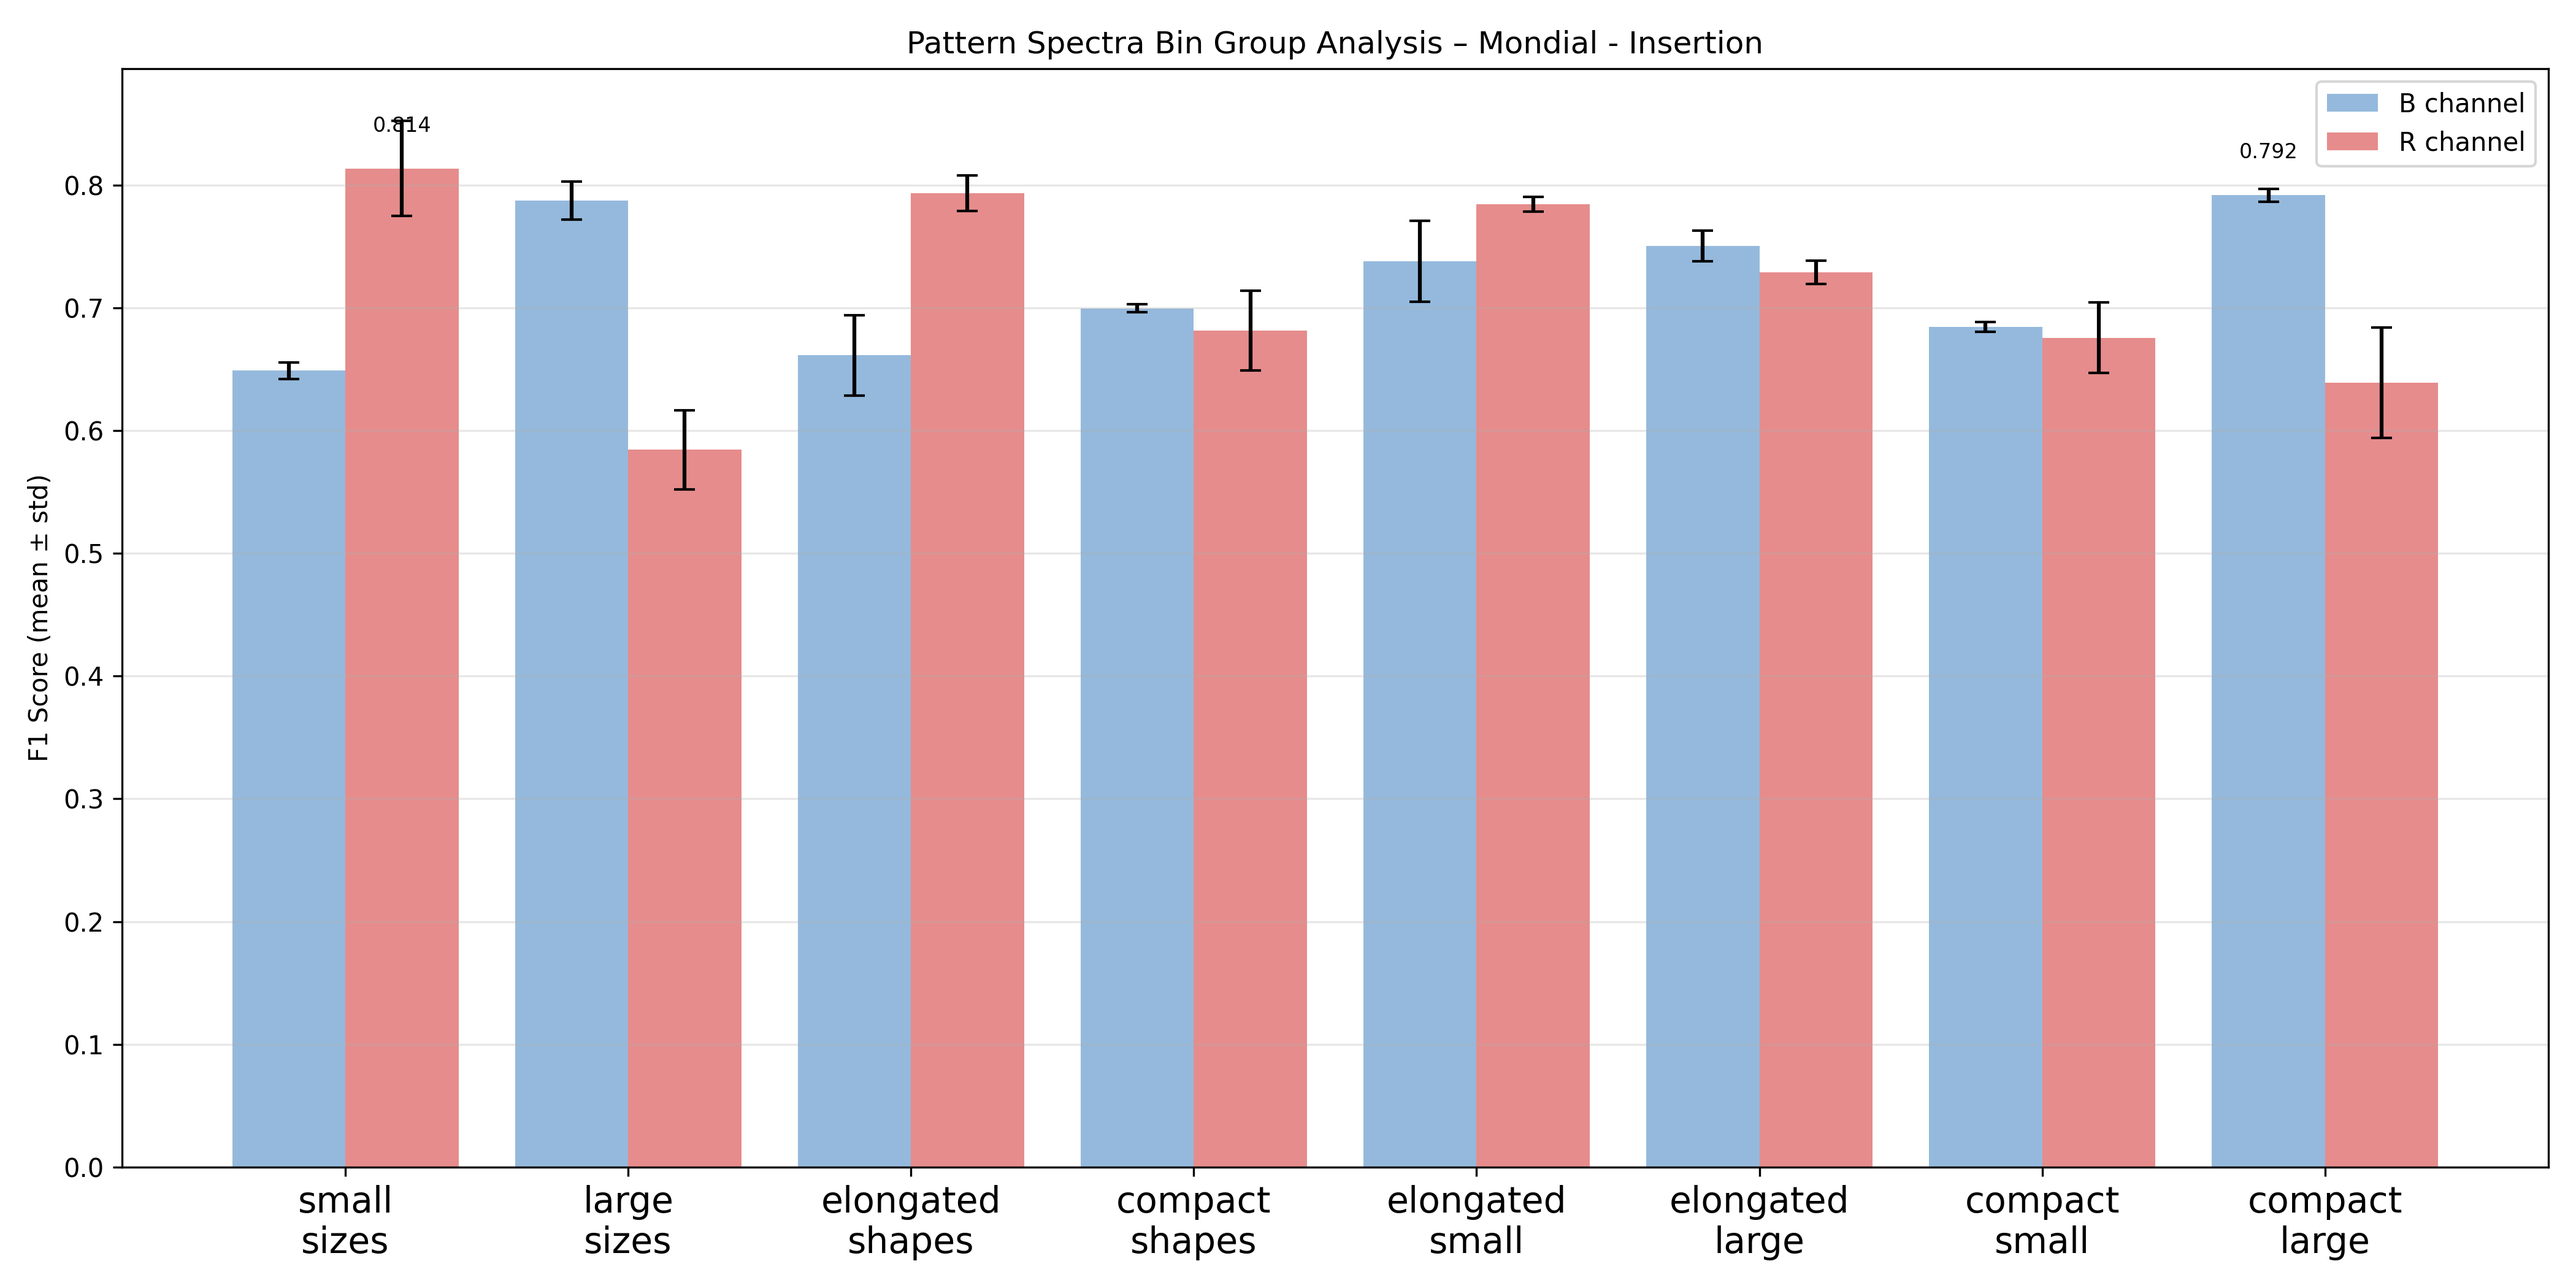
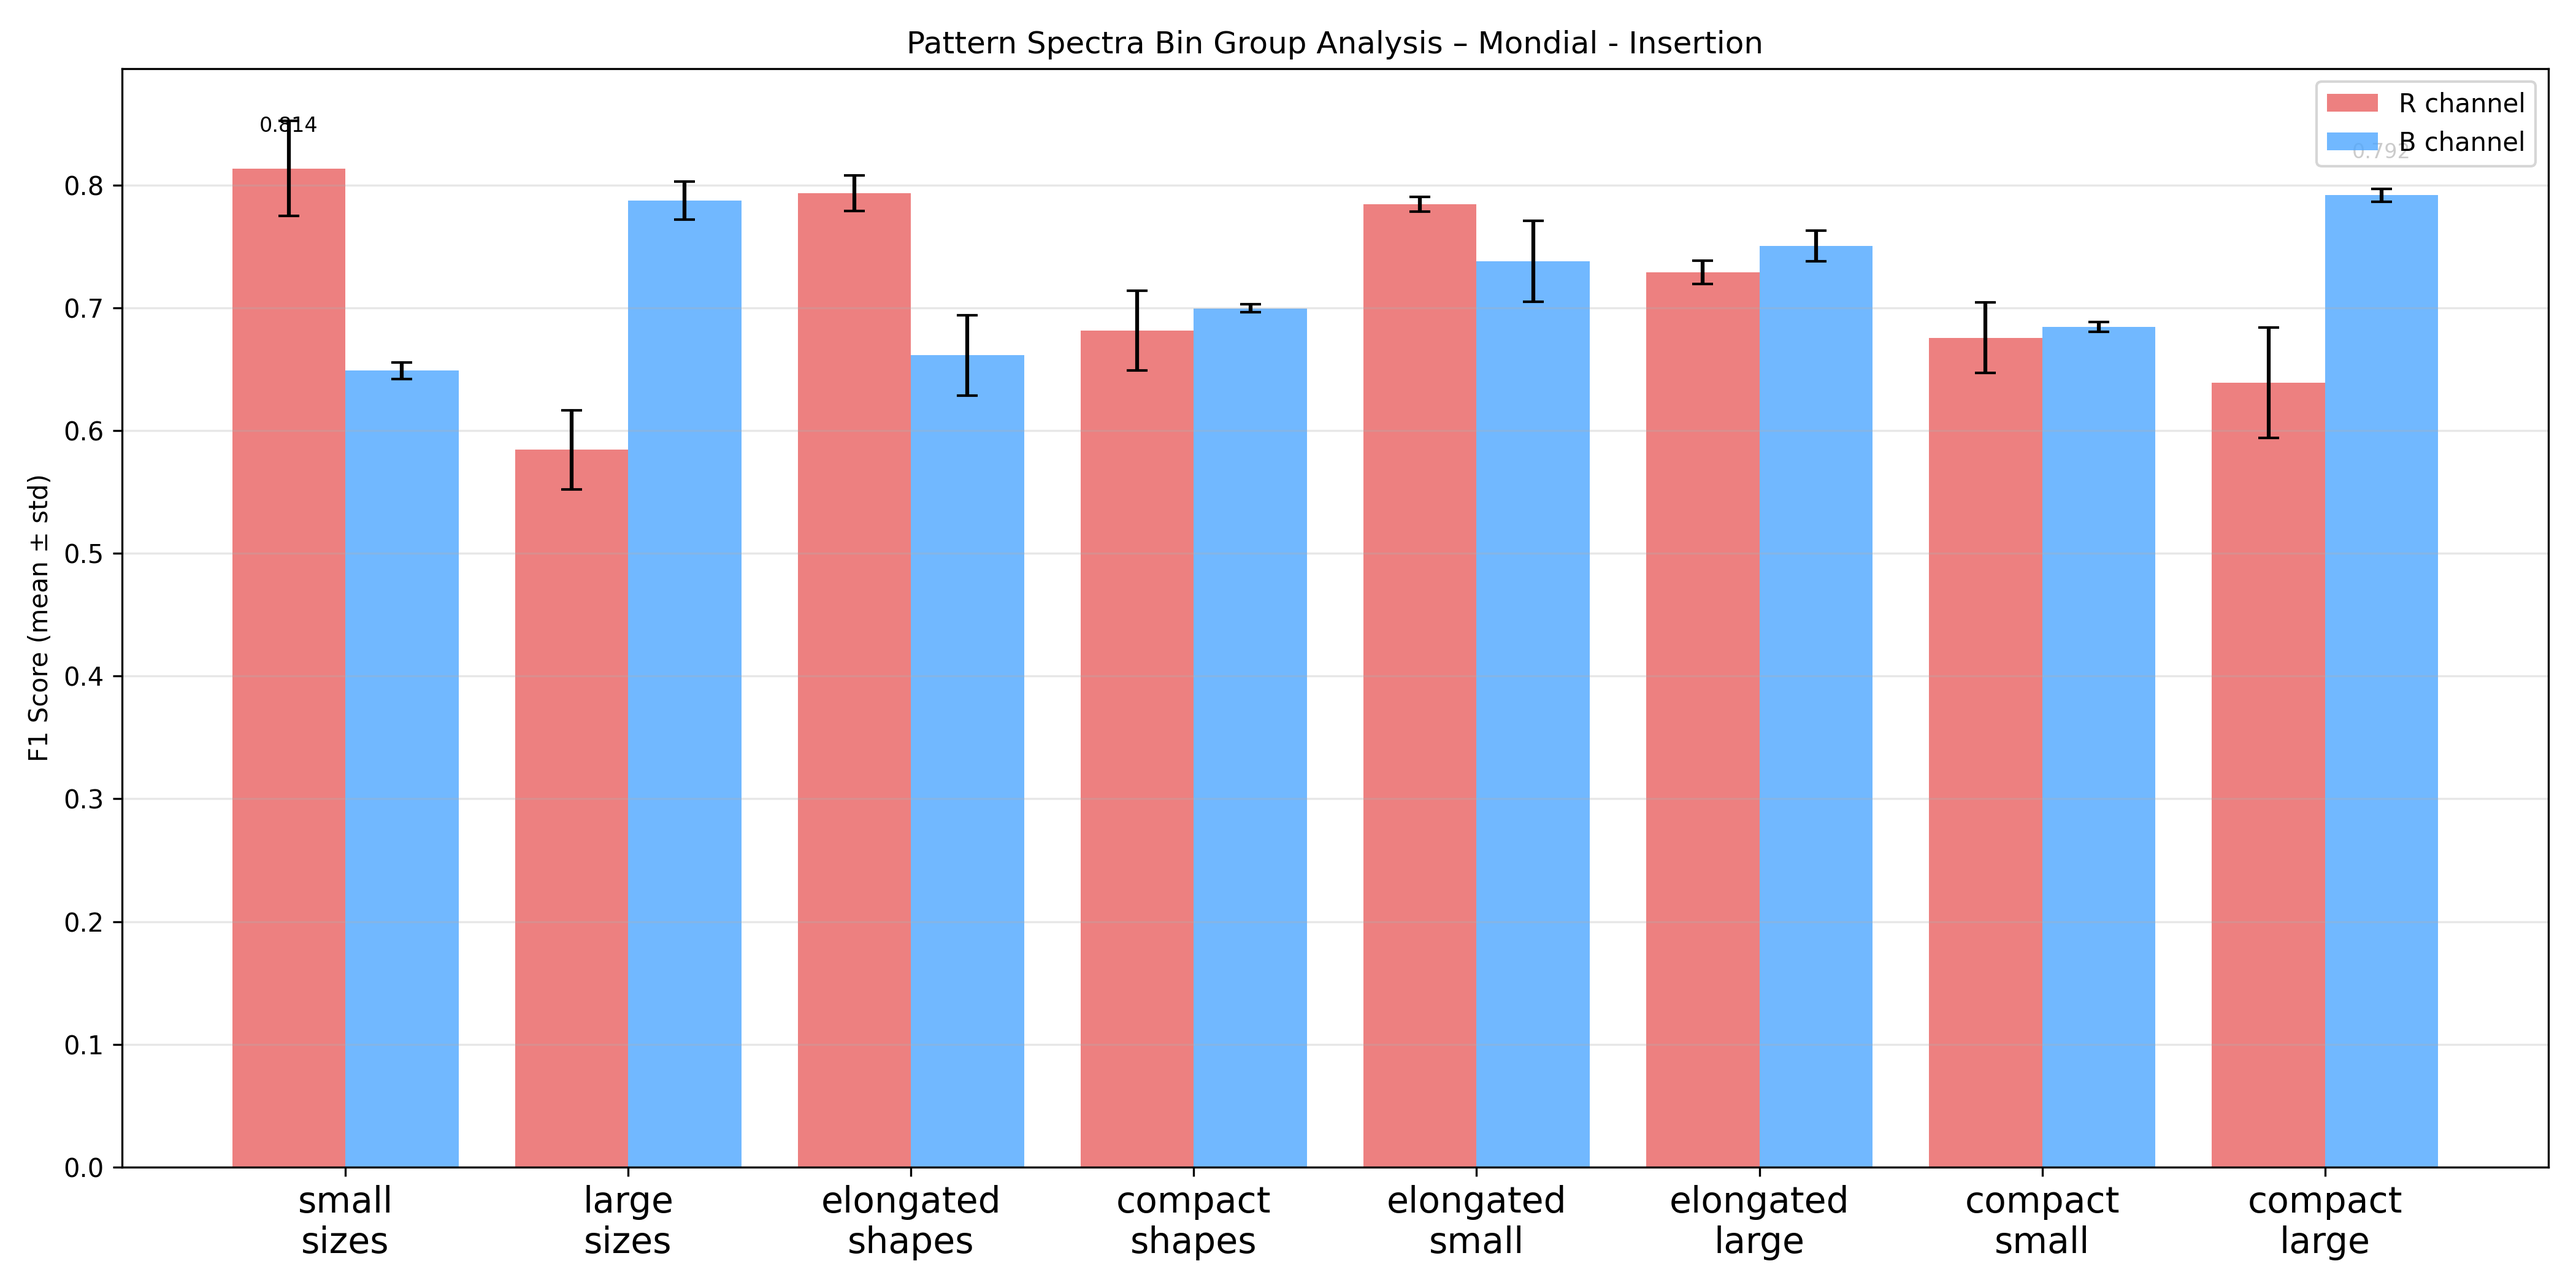
fixed bug with best_combo[0]

diff --git a/Feature_Extraction/run_bin_analysis.py b/Feature_Extraction/run_bin_analysis.py
@@ -117,7 +117,7 @@ def create_feature_array_from_10x10(arr_10x10, shape_bins, size_bins): # INSERTI
 
 def create_feature_array_deletion(arr_10x10, shape_bins_to_remove, size_bins_to_remove):
     # return all bins except those in shape_bins_to_remove and size_bins_to_remove - FOR DELETION CASE
-    mask = np.zeros((11, 11), dtype=bool)
+    mask = np.ones((11, 11), dtype=bool)
     mask[np.ix_(shape_bins_to_remove, size_bins_to_remove)] = False
     sel = arr_10x10[mask] # apply removal mask 
 
@@ -265,6 +265,12 @@ def main():
         n_samples_label = preloaded[label_name][CHANNEL_POOL[0]].shape[0]
         train_idx, test_idx = build_train_test_indices(n_samples_label, xval_fraction)
         label_train_test_indices[label_name] = (train_idx, test_idx)
+
+    # print label counts per split
+    for label_name in LABEL_MAP:
+        train_idx, test_idx = label_train_test_indices[label_name]
+        print(f"[DEBUG] Label '{label_name}' -> Train: {len(train_idx)}, Test: {len(test_idx)}")
+
 
     for label_name in LABEL_MAP:
         train_idx, test_idx = label_train_test_indices[label_name]
@@ -473,6 +479,15 @@ def main():
         Xte_final = np.array(Xte_final_list)
         yte_final = np.array(yte_final_list, dtype=np.int64)
 
+
+        print("\n[DEBUG] FINAL TRAIN/TEST AFTER BIN FILTER:")
+        print("Train Healthy:   ", np.sum(np.array(ytr_final) == 0))
+        print("Train Unhealthy: ", np.sum(np.array(ytr_final) == 1))
+        print("Test Healthy:    ", np.sum(np.array(yte_final) == 0))
+        print("Test Unhealthy:  ", np.sum(np.array(yte_final) == 1))
+        print("Total Train:", len(ytr_final), "Total Test:", len(yte_final))
+
+
         # train final per-channel model and evaluate on test set
         final_model = make_model()
         final_model.fit(Xtr_final, ytr_final)
@@ -537,76 +552,82 @@ def main():
 
     # Build combined features (concatenate per-channel best-bin features)
 
-
-    # Use per-label splits for FINAL MULTI-CHANNEL EVALUATION
-    X_train_per_label = []
-    y_train_per_label = []
-    X_test_per_label = []
-    y_test_per_label = []
-
-    for label_idx, label_name in enumerate(LABEL_MAP.keys()):
-        n_train = preloaded[label_name][best_combo[0] + "_train"].shape[0]
-        n_test = preloaded[label_name][best_combo[0] + "_test"].shape[0]
-
-        # stack arrays from all channels in best_combo for this label
-        # Note: we only concatenate features later after applying best subsets, so here we just keep 10x10 arrays
-        X_train_per_label.append(preloaded[label_name][best_combo[0] + "_train"])
-        y_train_per_label.append(np.array([label_idx] * n_train))
-        X_test_per_label.append(preloaded[label_name][best_combo[0] + "_test"])
-        y_test_per_label.append(np.array([label_idx] * n_test))
-
-    X_train_full_10x10 = np.vstack(X_train_per_label)
-    y_train_full = np.concatenate(y_train_per_label)
-    X_test_full_10x10 = np.vstack(X_test_per_label)
-    y_test_full = np.concatenate(y_test_per_label)
-
+    # FINAL MULTI-CHANNEL EVALUATION
     Xtr_final = []
     ytr_final = []
     Xte_final = []
     yte_final = []
 
-    # Train set
-    for xi, yi in zip(X_train_full_10x10, y_train_full):
-        fv_parts = []
-        skip = False
-        for ch in best_combo:
-            s_bins = all_best[ch]["shape_bins"]
-            z_bins = all_best[ch]["size_bins"]
-            if args.eval_type == "insertion":
-                fv = create_feature_array_from_10x10(xi, s_bins, z_bins)
-            else:
-                fv = create_feature_array_deletion(xi, s_bins, z_bins)
-            if fv is None:
-                skip = True
-                break
-            fv_parts.append(fv)
-        if not skip:
-            Xtr_final.append(np.concatenate(fv_parts))
-            ytr_final.append(yi)
+    # -------------------------
+    # BUILD FINAL TRAIN FEATURES
+    # -------------------------
+    for label_idx, label_name in enumerate(LABEL_MAP.keys()):
 
-    # Test set
-    for xi, yi in zip(X_test_full_10x10, y_test_full):
-        fv_parts = []
-        skip = False
-        for ch in best_combo:
-            s_bins = all_best[ch]["shape_bins"]
-            z_bins = all_best[ch]["size_bins"]
-            if args.eval_type == "insertion":
-                fv = create_feature_array_from_10x10(xi, s_bins, z_bins)
-            else:
-                fv = create_feature_array_deletion(xi, s_bins, z_bins)
-            if fv is None:
-                skip = True
-                break
-            fv_parts.append(fv)
-        if not skip:
-            Xte_final.append(np.concatenate(fv_parts))
-            yte_final.append(yi)
+        # Number of train samples for this label
+        n_train = len(X_train_per_label[label_idx][best_combo[0]])
 
+        for idx in range(n_train):
+            fv_parts = []
+            skip = False
+
+            for ch in best_combo:
+                xi = X_train_per_label[label_idx][ch][idx]  
+
+                s_bins = all_best[ch]["shape_bins"]
+                z_bins = all_best[ch]["size_bins"]
+
+                if args.eval_type == "insertion":
+                    fv = create_feature_array_from_10x10(xi, s_bins, z_bins)
+                else:
+                    fv = create_feature_array_deletion(xi, s_bins, z_bins)
+
+                if fv is None or fv.size == 0:
+                    skip = True
+                    break
+
+                fv_parts.append(fv)
+
+            if not skip:
+                Xtr_final.append(np.concatenate(fv_parts))
+                ytr_final.append(label_idx)
+
+    # ------------------------
+    # BUILD FINAL TEST FEATURES
+    # ------------------------
+    for label_idx, label_name in enumerate(LABEL_MAP.keys()):
+
+        n_test = len(X_test_per_label[label_idx][best_combo[0]])
+
+        for idx in range(n_test):
+            fv_parts = []
+            skip = False
+
+            for ch in best_combo:
+                xi = X_test_per_label[label_idx][ch][idx]
+
+                s_bins = all_best[ch]["shape_bins"]
+                z_bins = all_best[ch]["size_bins"]
+
+                if args.eval_type == "insertion":
+                    fv = create_feature_array_from_10x10(xi, s_bins, z_bins)
+                else:
+                    fv = create_feature_array_deletion(xi, s_bins, z_bins)
+
+                if fv is None or fv.size == 0:
+                    skip = True
+                    break
+
+                fv_parts.append(fv)
+
+            if not skip:
+                Xte_final.append(np.concatenate(fv_parts))
+                yte_final.append(label_idx)
+                
     Xtr_final = np.array(Xtr_final)
     ytr_final = np.array(ytr_final, dtype=np.int64)
     Xte_final = np.array(Xte_final)
     yte_final = np.array(yte_final, dtype=np.int64)
+
 
     print(f"\nTraining final multi-channel model using {len(best_combo)} channels...")
 

diff --git a/Feature_Extraction/plot_bin_results.py b/Feature_Extraction/plot_bin_results.py
@@ -3,17 +3,17 @@ import pickle
 import numpy as np
 import matplotlib.pyplot as plt
 
-EVAL_MODE = "deletion"  # either "deletion" or "insertion"
+EVAL_MODE = "insertion"  # either "deletion" or "insertion"
 
-VARIANTS = ["Rudolph", "Mondial", "Spunta"] 
+VARIANTS = ["Rudolph", "Mondial", "Spunta", "Fontane"] 
 RESULTS_DIR = "Bin_Analysis_Results"     # folder with PKLs
 PLOT_DIR = "Plots/bin_analysis/Deletion"   # folder where figures will be saved
 
 COLOR_MAP = {
-    "R": '#E07070',     
-    "B": '#7BA8D4',      
-    "G": '#7CB87C',      
-    "H": '#B896D4',      
+    "R": "#E96060",     
+    "B": "#4EA7FF",      
+    "G": "#98D798",      
+    "H": "#EC7FCA",      
     "V": "#F3BA6B",      
     "S": "#792468",      
 }
@@ -23,7 +23,13 @@ def find_channels_for_variant(variant):
         if fname.startswith(f"{variant}_bin_analysis_") and fname.endswith(".pkl"):
             ch = fname.replace(f"{variant}_bin_analysis_", "").replace(".pkl", "")
             channels.append(ch)
-    return sorted(channels)
+
+    preferred_order = ["R", "G", "B", "H", "S", "V"]
+    channels_sorted = sorted(
+        channels,
+        key=lambda c: preferred_order.index(c) if c in preferred_order else len(preferred_order)
+    )
+    return channels_sorted
 
 
 def load_channel_results(variant, channel):
